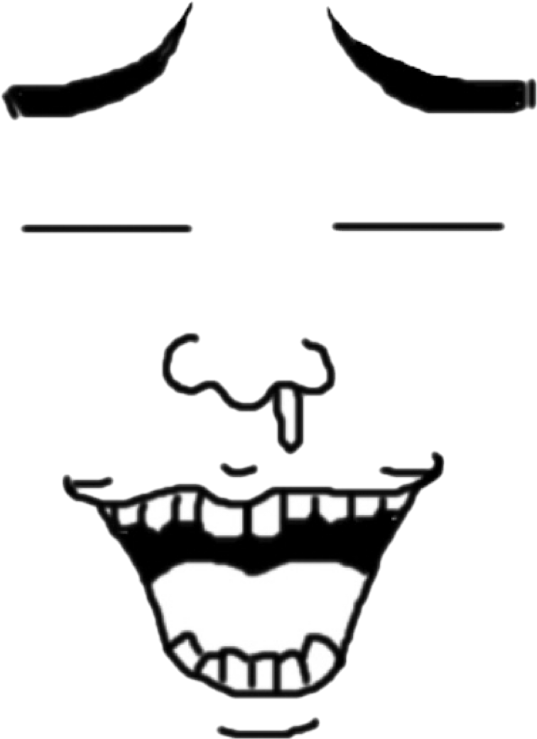
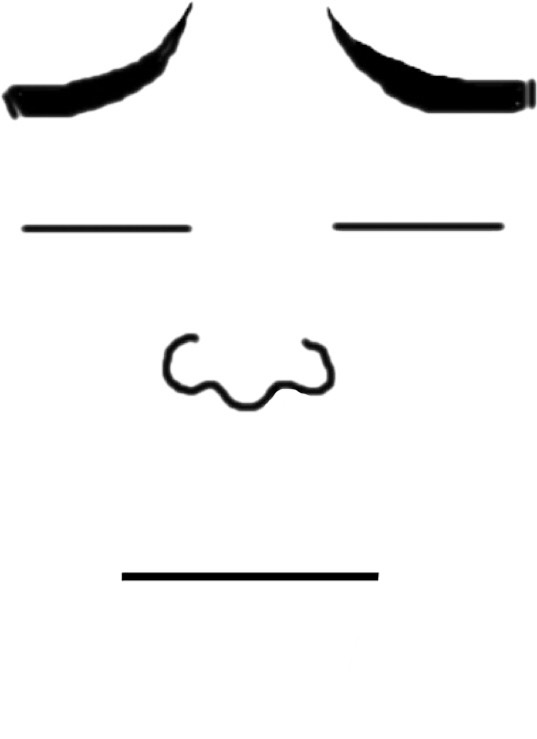
Add files via upload

Changed region(s): [[0.1192, 0.5913, 0.8343, 1.0], [0.5065, 0.5291, 0.5661, 0.6225]]

diff --git a/js/main.js b/js/main.js
@@ -9,7 +9,7 @@
   let startTime;
   let timeoutId;
   let elapsedTime = 0;
-  let num = 1;
+  // let num = 1;
 
   
   face.classList.add('nomal-face');
@@ -20,9 +20,13 @@
     const h = String(d.getHours()-9).padStart(2, '0');
     const m = String(d.getMinutes()).padStart(2, '0');
     const s = String(d.getSeconds()).padStart(2, '0');
-    timer.textContent = `${h}:${m}:${s}`;
+    const ms = String(d.getMilliseconds()).padStart(3, '0');
+    timer.textContent = `${h}:${m}:${s}.${ms}`;
     
-    if((num % 3) === 0 || /3/.test(num)){
+    if((d.getSeconds() === 0)){
+      face.classList.remove('funny-face');
+      face.classList.add('nomal-face');
+    }else if((d.getSeconds() % 3) === 0 || /3/.test(d.getSeconds())){
       face.classList.remove('nomal-face');
       face.classList.add('funny-face');
     }else{
@@ -32,8 +36,8 @@
     
     timeoutId = setTimeout(() => {
       countUp();
-      num++;
-    }, 1000);
+      // num++;
+    }, 10);
   }
 
   function setButtonStateInitial() {
@@ -81,7 +85,7 @@
       return;
     }
     setButtonStateInitial();
-    timer.textContent = '00:00:00';
+    timer.textContent = '00:00:00.000';
     elapsedTime = 0;
   });
 }

diff --git a/css/styles.css b/css/styles.css
@@ -1,13 +1,13 @@
 body{
   font-family: 'Courier New', Courier, monospace;
   font-size: 14px;
-  background-color: #eee;
+  background-color: #fff;
 
 }
 
 .container {
   margin:  40px auto;
-  width: 300px;
+  width: 320px;
   padding: 15px;
   text-align: center;
   border: solid rgb(203, 203, 203);
@@ -31,7 +31,7 @@ body{
 #timer {
   height: 80px;
   line-height: 80px;
-  font-size: 40px;
+  font-size: 35px;
 }
 
 .btn {

diff --git a/index.html b/index.html
@@ -9,7 +9,7 @@
 <body>
 
   <div class="container">
-    <div id="timer">00:00:00</div>
+    <div id="timer">00:00:00.000</div>
     <div class="controles">
       <div class="btn" id="start">Start</div>
       <div class="btn" id="stop">Stop</div>
